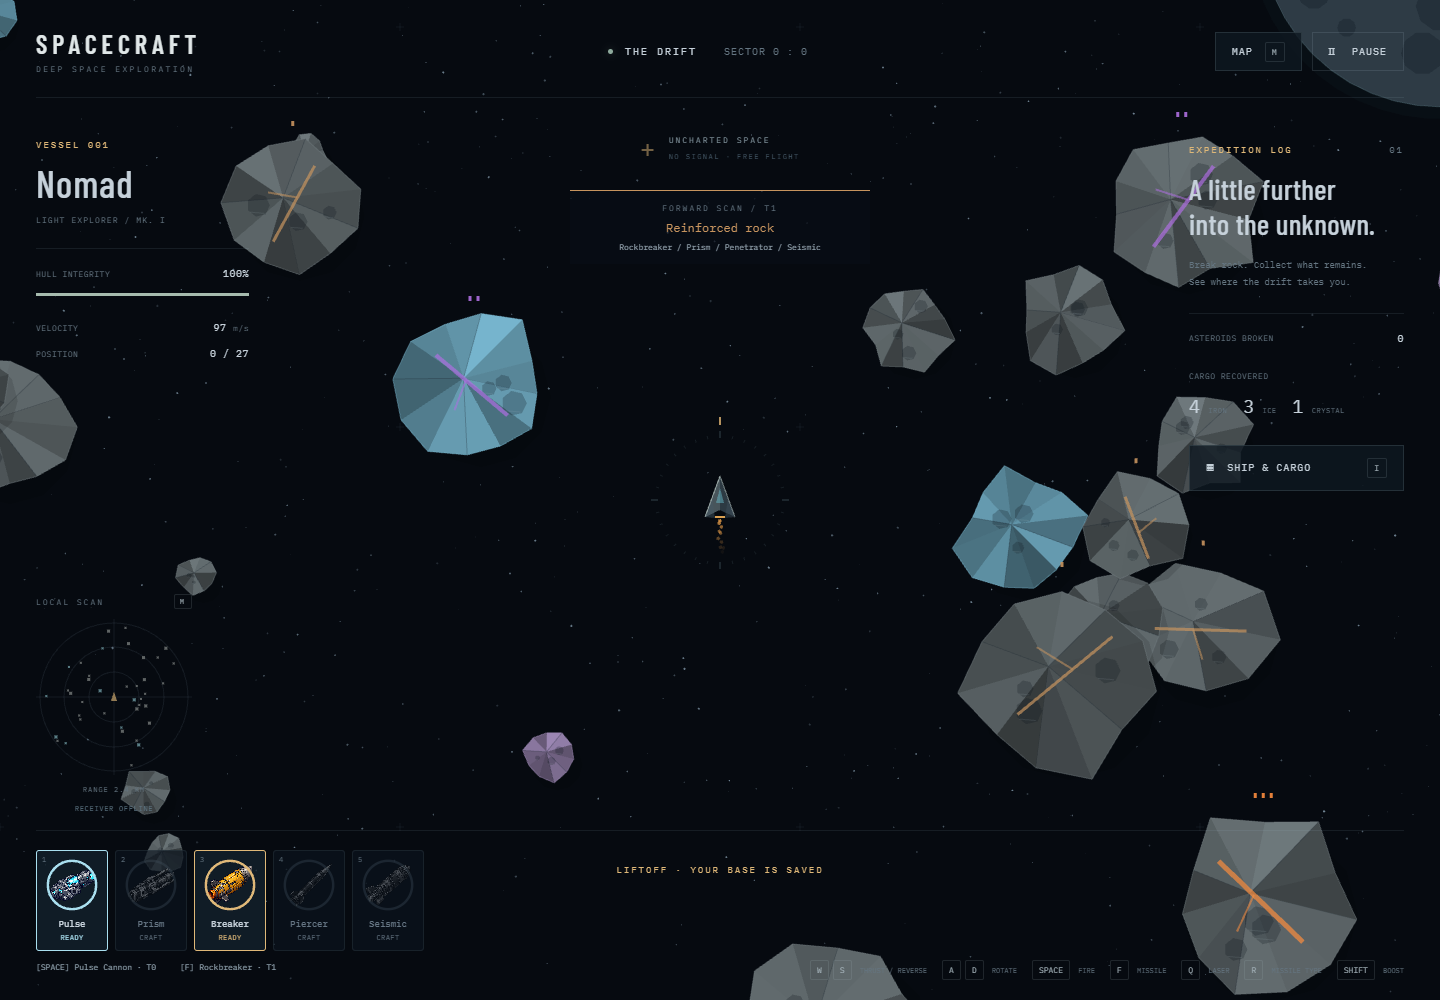
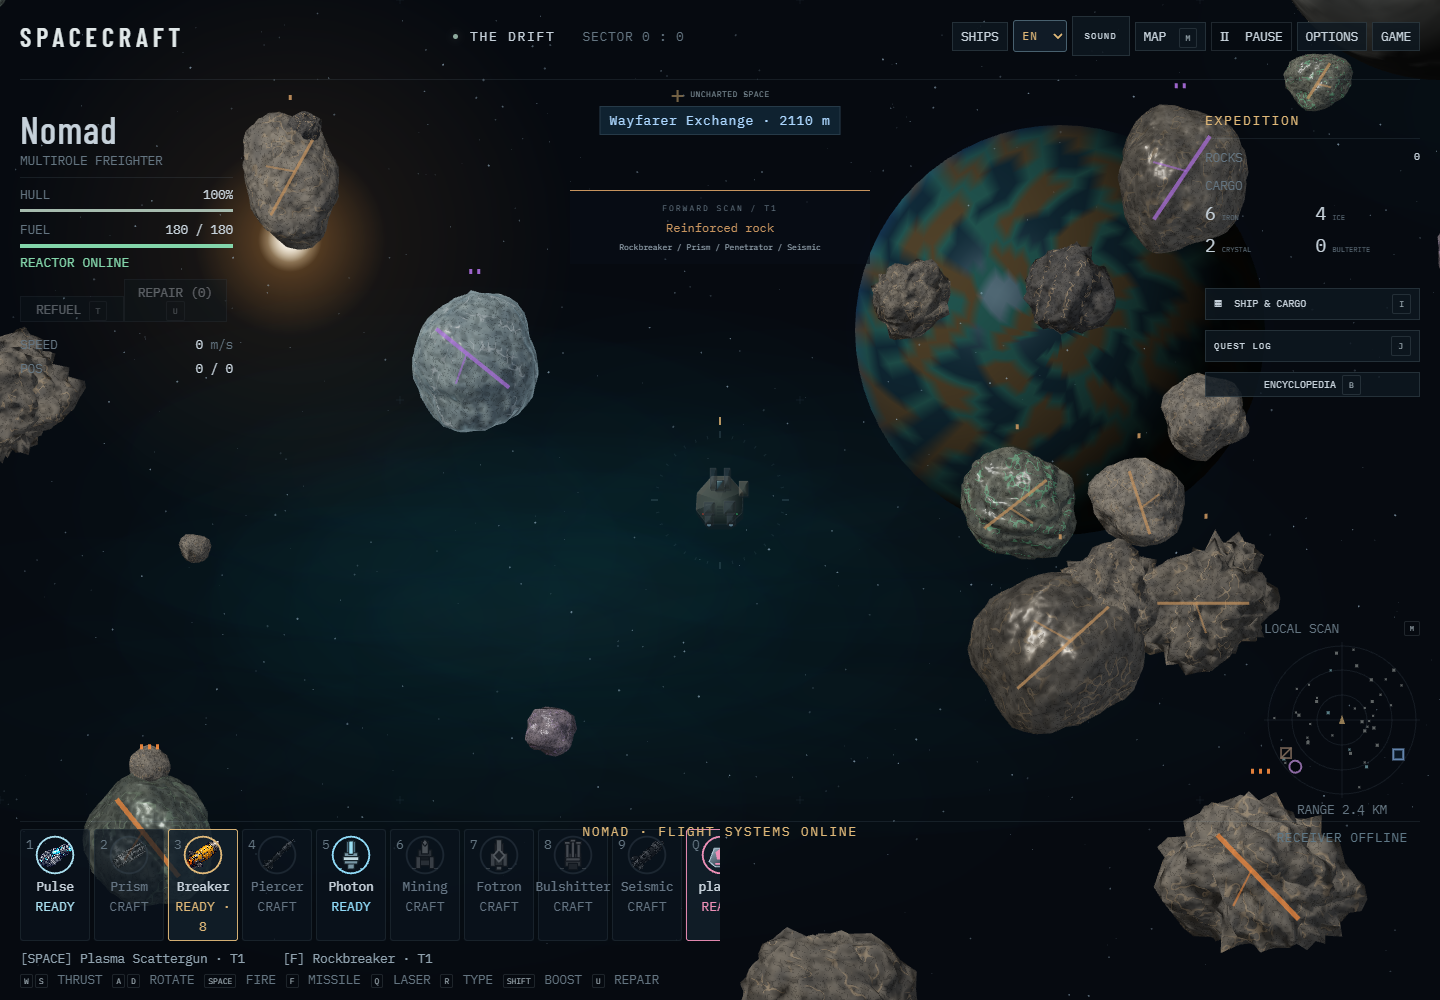
Refresh README screenshots for current gameplay

diff --git a/README.md b/README.md
@@ -19,7 +19,15 @@ For code structure, shared-state rules, and lightweight development checks, see
 
 A dependency-free WebGL space game. Open `index.html` in a modern desktop browser, or serve this directory with `python -m http.server 3333` and visit http://localhost:3333.
 
-![SPACECRAFT flight among asteroids](flight-preview.png)
+![SPACECRAFT flight among rendered asteroids and distant planets](flight-preview.png)
+
+Inventory, equipment slots, and portable crafting stations:
+
+![Ship inventory and crafting interface with new weapons and moon materials](inventory-preview.png)
+
+A Selene outpost with workbench, furnace, repair station, solar array, fabrication hub, storage, and beacon:
+
+![Moon base showing the new support buildings beside the landing pad](surface-preview.png)
 
 - **W / S**: thrust / reverse
 - **A / D**: rotate (arrow keys also work)
